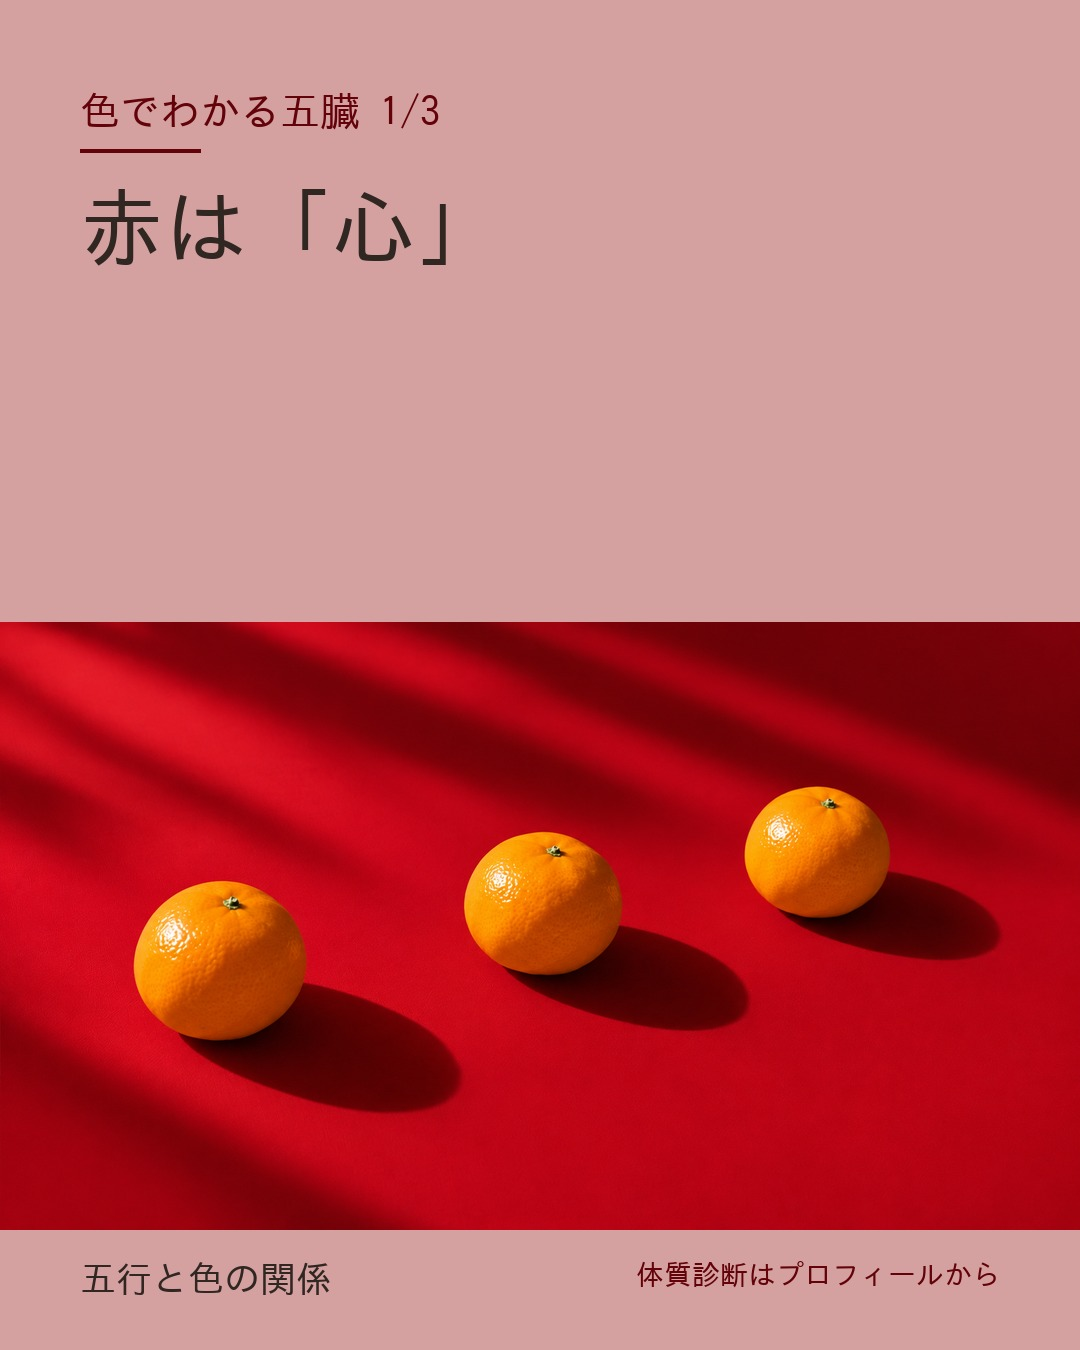
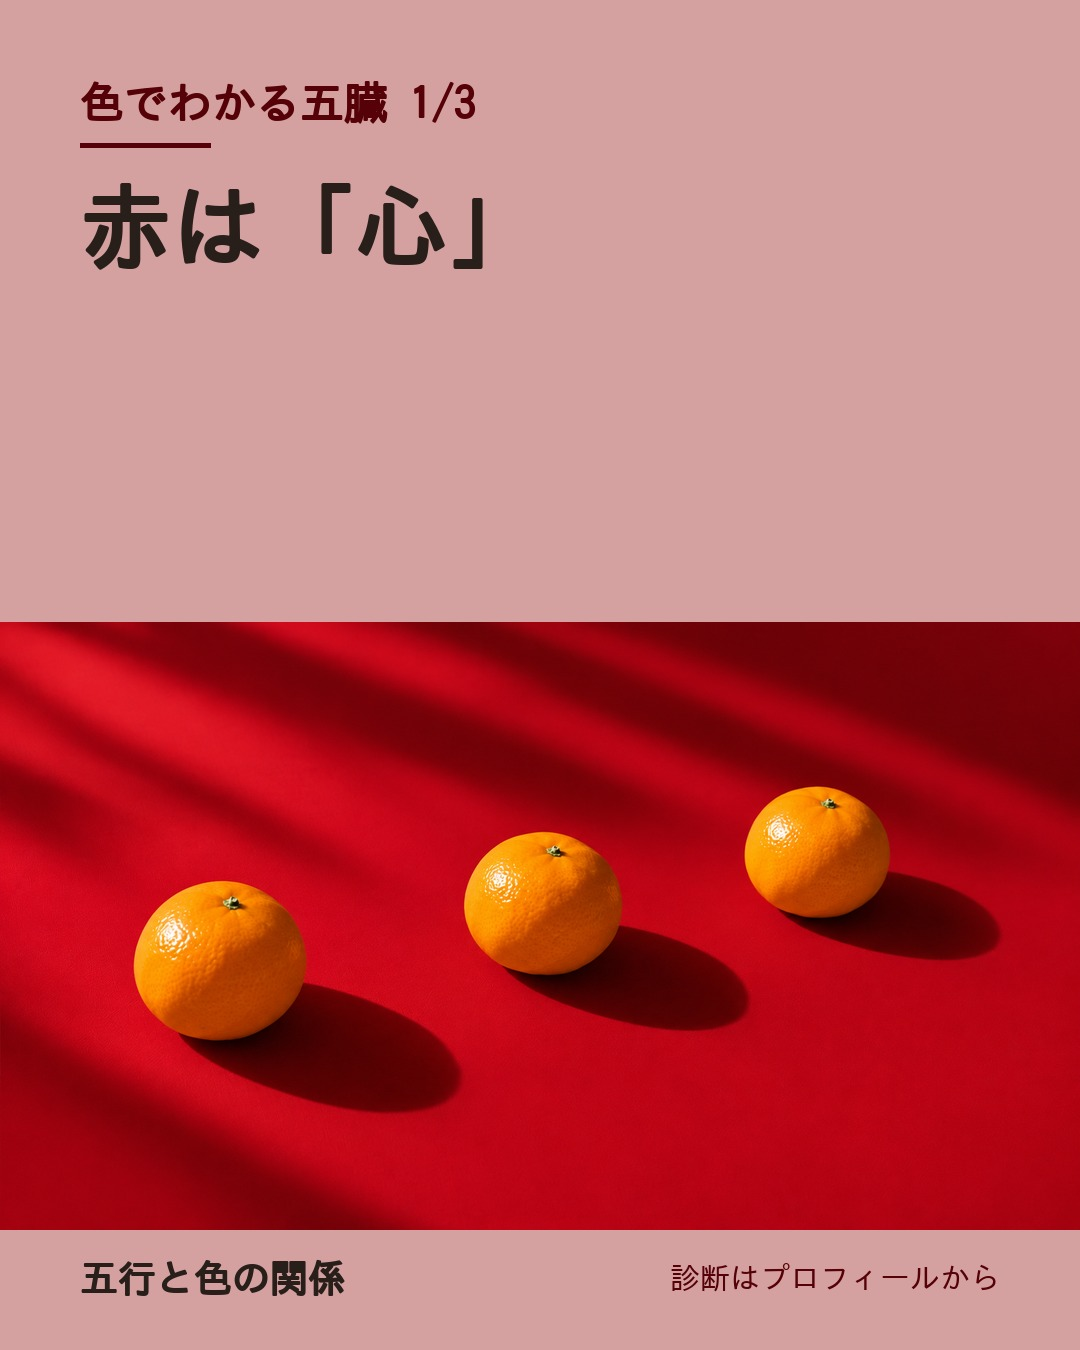
Instagram kit: 4-line bio, pinned posts, unified bold covers
Claude-Session: https://claude.ai/code/session_013ebeEq4n2PdqrJtXTrRZxh

diff --git a/instagram/POSTING_KIT.md b/instagram/POSTING_KIT.md
@@ -42,15 +42,20 @@
 **体質でえらぶ薬膳｜気血水AI診断**
 →「薬膳」「体質」「診断」で検索に引っかかるようにしています。
 
-### プロフィール文
+### プロフィール文（5行目以降は「続きを読む」で隠れるので、4行目までに要点を入れる）
+動画の4項目（①発信内容 ②自己開示 ③ペルソナ ④メリット）を1行ずつにしています。
+
 ```
-＼ あなたの「疲れやすい」「冷える」は体質のサインかも ／
-・気・血・水 × 五臓で、いまの体質をAIが整理
-・タイプ別に、台所にある食材をひと粒ずつ紹介
-・医学的診断ではなく、毎日の養生のヒントです
-▼ 無料・3分の体質診断はこちら
+① 体質タイプ別に、台所の食材でできる薬膳・養生を発信
+② 〔資格・経歴〕｜東洋医学の考え方をAI診断にしました
+③ 疲れやすい・冷える・眠りが浅い…なんとなく不調な人へ
+④ フォローで「自分のタイプに合う食材」が毎週わかる
+▼ 無料・3分のAI体質診断
+※医学的診断ではありません
 ```
-（リンク欄：診断アプリの公開URL）
+- **②〔資格・経歴〕は必ず埋めてください**（例：国際薬膳師／鍼灸師／登録販売者／「薬膳を学んで〇年」など）。信頼につながる部分で、競合の多くもここに肩書きを入れています。資格がない場合は「薬膳を勉強中の〇〇」のように、親しみやすさを出す書き方でも大丈夫です。
+- 5行目以降（▼診断／注意書き）は、リンク欄のすぐ上に表示されるので、隠れてもリンクには気づいてもらえます。
+- リンク欄：診断アプリの公開URL
 
 ### アイコン（コンセプトに沿う・小さく表示しても分かる・ただ見栄えがいいだけの写真は使わない）
 - **案A `icon/icon_A_hakkaku_pink.jpg`（おすすめ）**：くすみピンクの背景に八角。小さな丸の中でも星形がはっきり見え、背景色がアカウントの「色」として覚えてもらいやすいです。
@@ -70,7 +75,27 @@
 
 > 薬機法の注意：「〜が治る」「〜に効く」とは書かず、「薬膳では〜とされる」「〜が気になる人に」という言い方にしています。
 
+### カバー画像のチェック（動画の3項目）
+- [x] 統一感：全投稿が「上に色の帯＋太字タイトル、下に写真、最下部に一言」という同じレイアウト。帯の色は写真から取っているので、並べても色がうるさくならない
+- [x] ひと目でわかる：タイトルは2行・太字で、スマホのグリッド表示でも読める大きさ
+- [ ] リールのカバー：リールを出すときも、同じ `covers/` の画像をカバーに設定する（アップロード時に「カバーを編集」→「カメラロールから追加」）
+
+### ピン留め（3つまで固定）
+| 枠 | 投稿 | 目的 |
+|---|---|---|
+| 1 | **00 あなたは何タイプ？**（無料・3分のAI体質診断） | 売りたいもの／リスト獲得（診断へ誘導） |
+| 2 | **01 はじめまして** | 自己紹介 |
+| 3 | **09 保存版｜松の実の食べ方5選** | 保存されやすい形式。あとで一番伸びた投稿に差し替える |
+
+`grid_preview.jpg` は、この3つをピン留めした状態のプロフィール画面のイメージです（ピン留め3つ → 残りは新しい順）。
+
 ### 投稿一覧
+
+**00 無料・3分｜あなたは何タイプ？（ピン留め用）**
+中身：①気虚・血虚・陰虚・陽虚・気滞の5タイプを1枚で紹介 ②それぞれのチェック項目を3つずつ ③「当てはまるものが多いタイプは？ くわしくはAI診断で」 ④診断画面のスクリーンショット
+キャプション：「なんとなく不調」は、体質タイプで見え方が変わります。気・血・水×五臓の考え方で、3分であなたのタイプを整理するAI体質診断をつくりました。無料・登録なしで使えます。プロフィールのリンクからどうぞ。結果は「◯◯タイプだった！」とコメントで教えてください。※医学的診断ではありません
+`#体質診断 #薬膳 #東洋医学 #気血水 #五臓 #養生`
+※写真は06と同じ八角（ピンク）を使っています。写真が増えたら差し替えてください。
 
 **01 はじめまして｜台所の一粒から、体質を知る。**
 中身：①このアカウントについて ②気・血・水とは ③五臓とは ④診断の流れ（3分・無料）
@@ -115,7 +140,7 @@
 `#五行 #脾 #胃腸 #体質診断 #東洋医学`
 
 ### 投稿ペース
-週3回（例：月・水・土の20〜21時）。最初の9投稿でプロフィール画面の3×3がそろうので、01〜09を早めに出すのがおすすめです。
+週3回（例：月・水・土の20〜21時）。00・01・09は最初の週に出してすぐピン留めし、残りを順番に投稿します。
 
 ---
 
